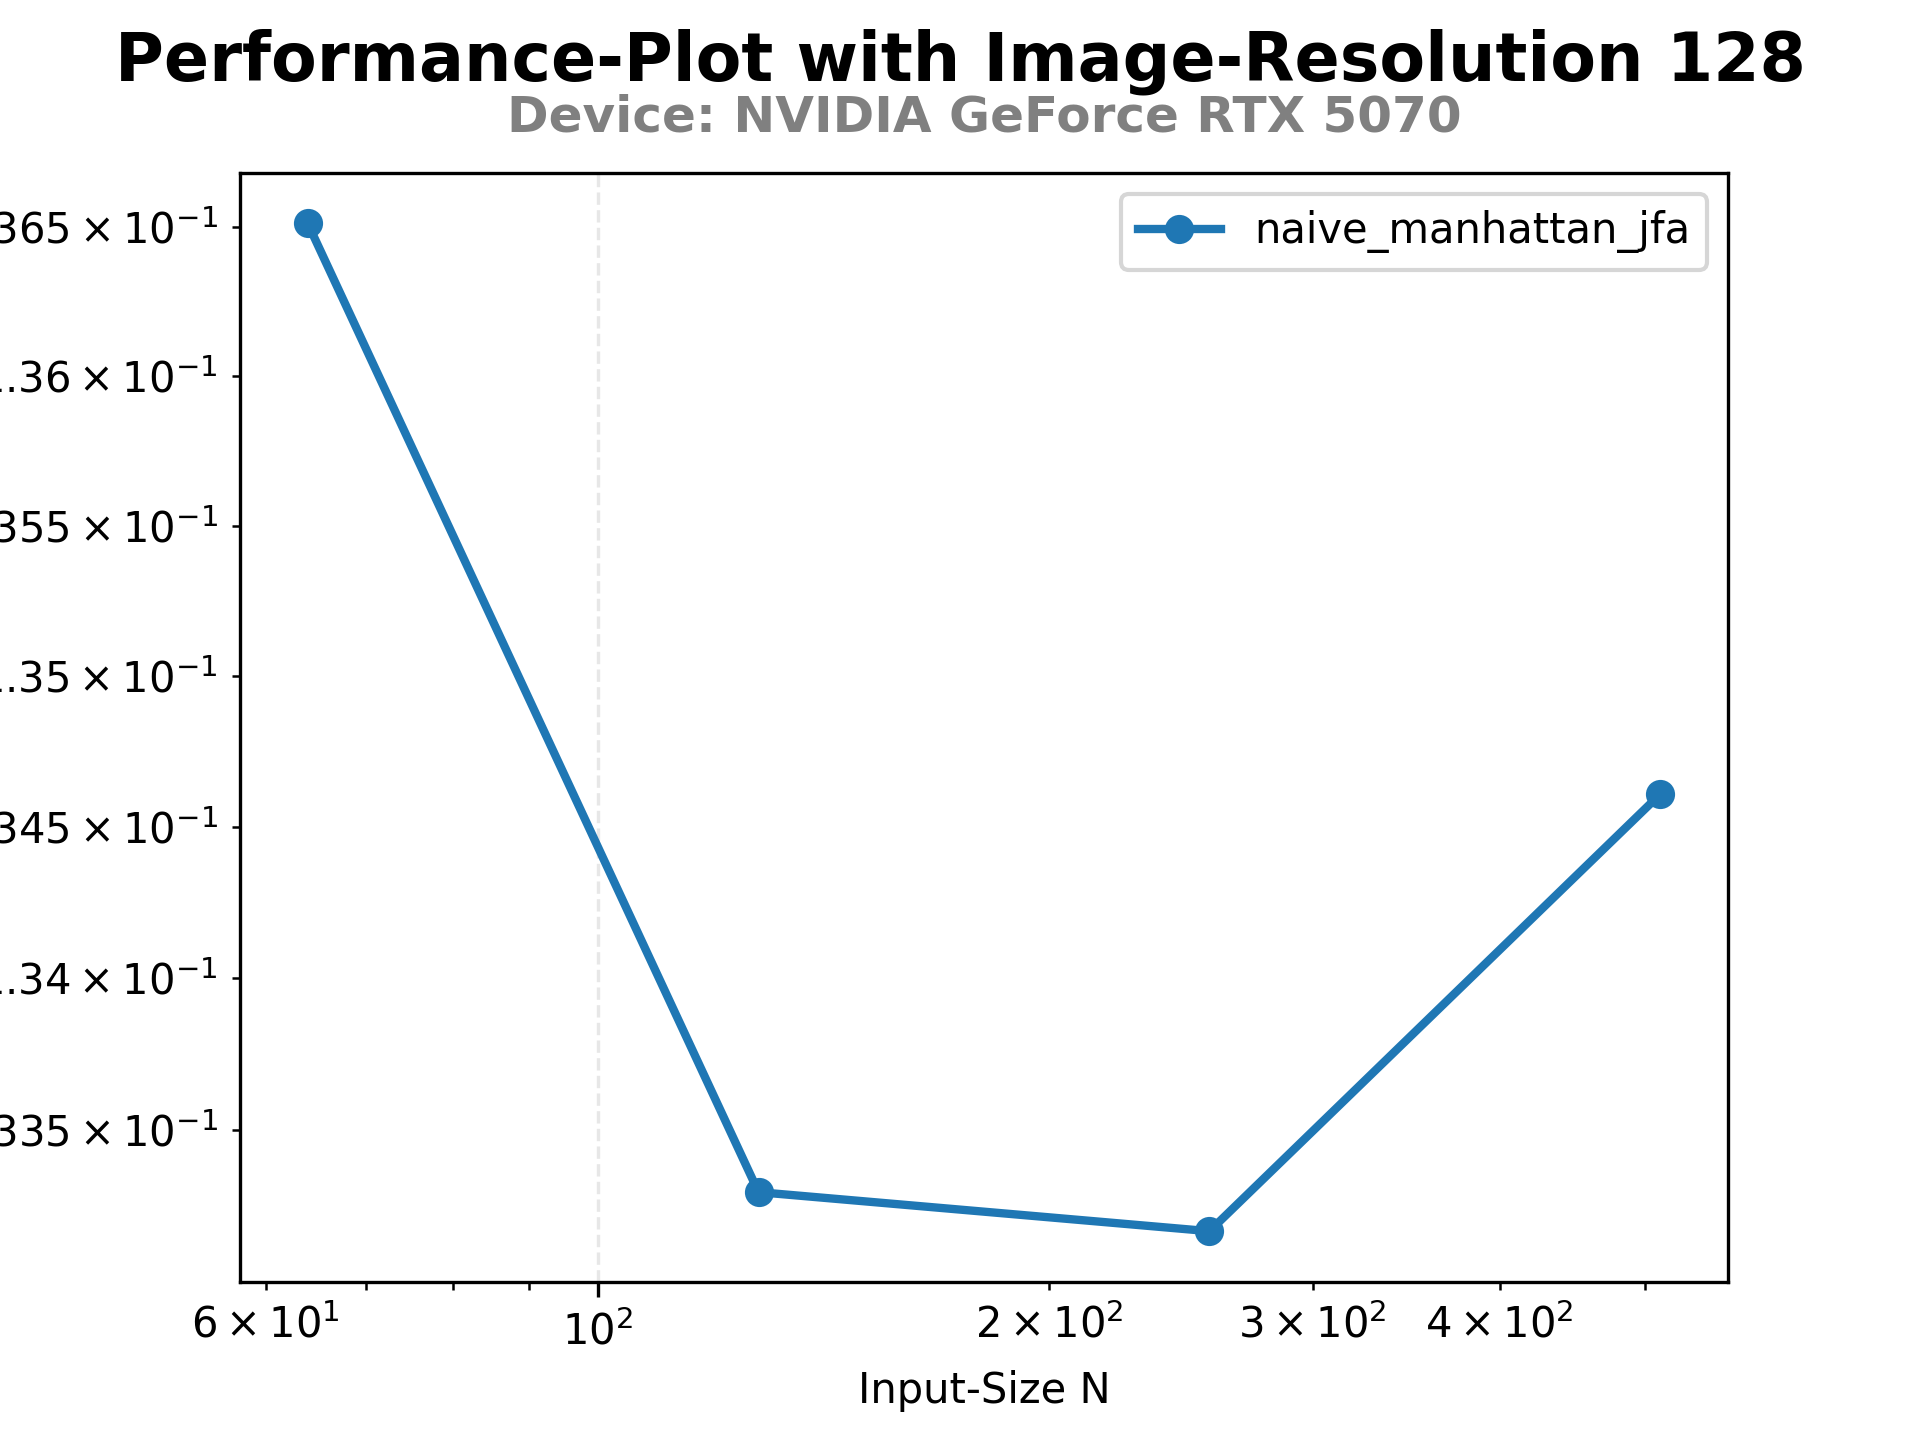
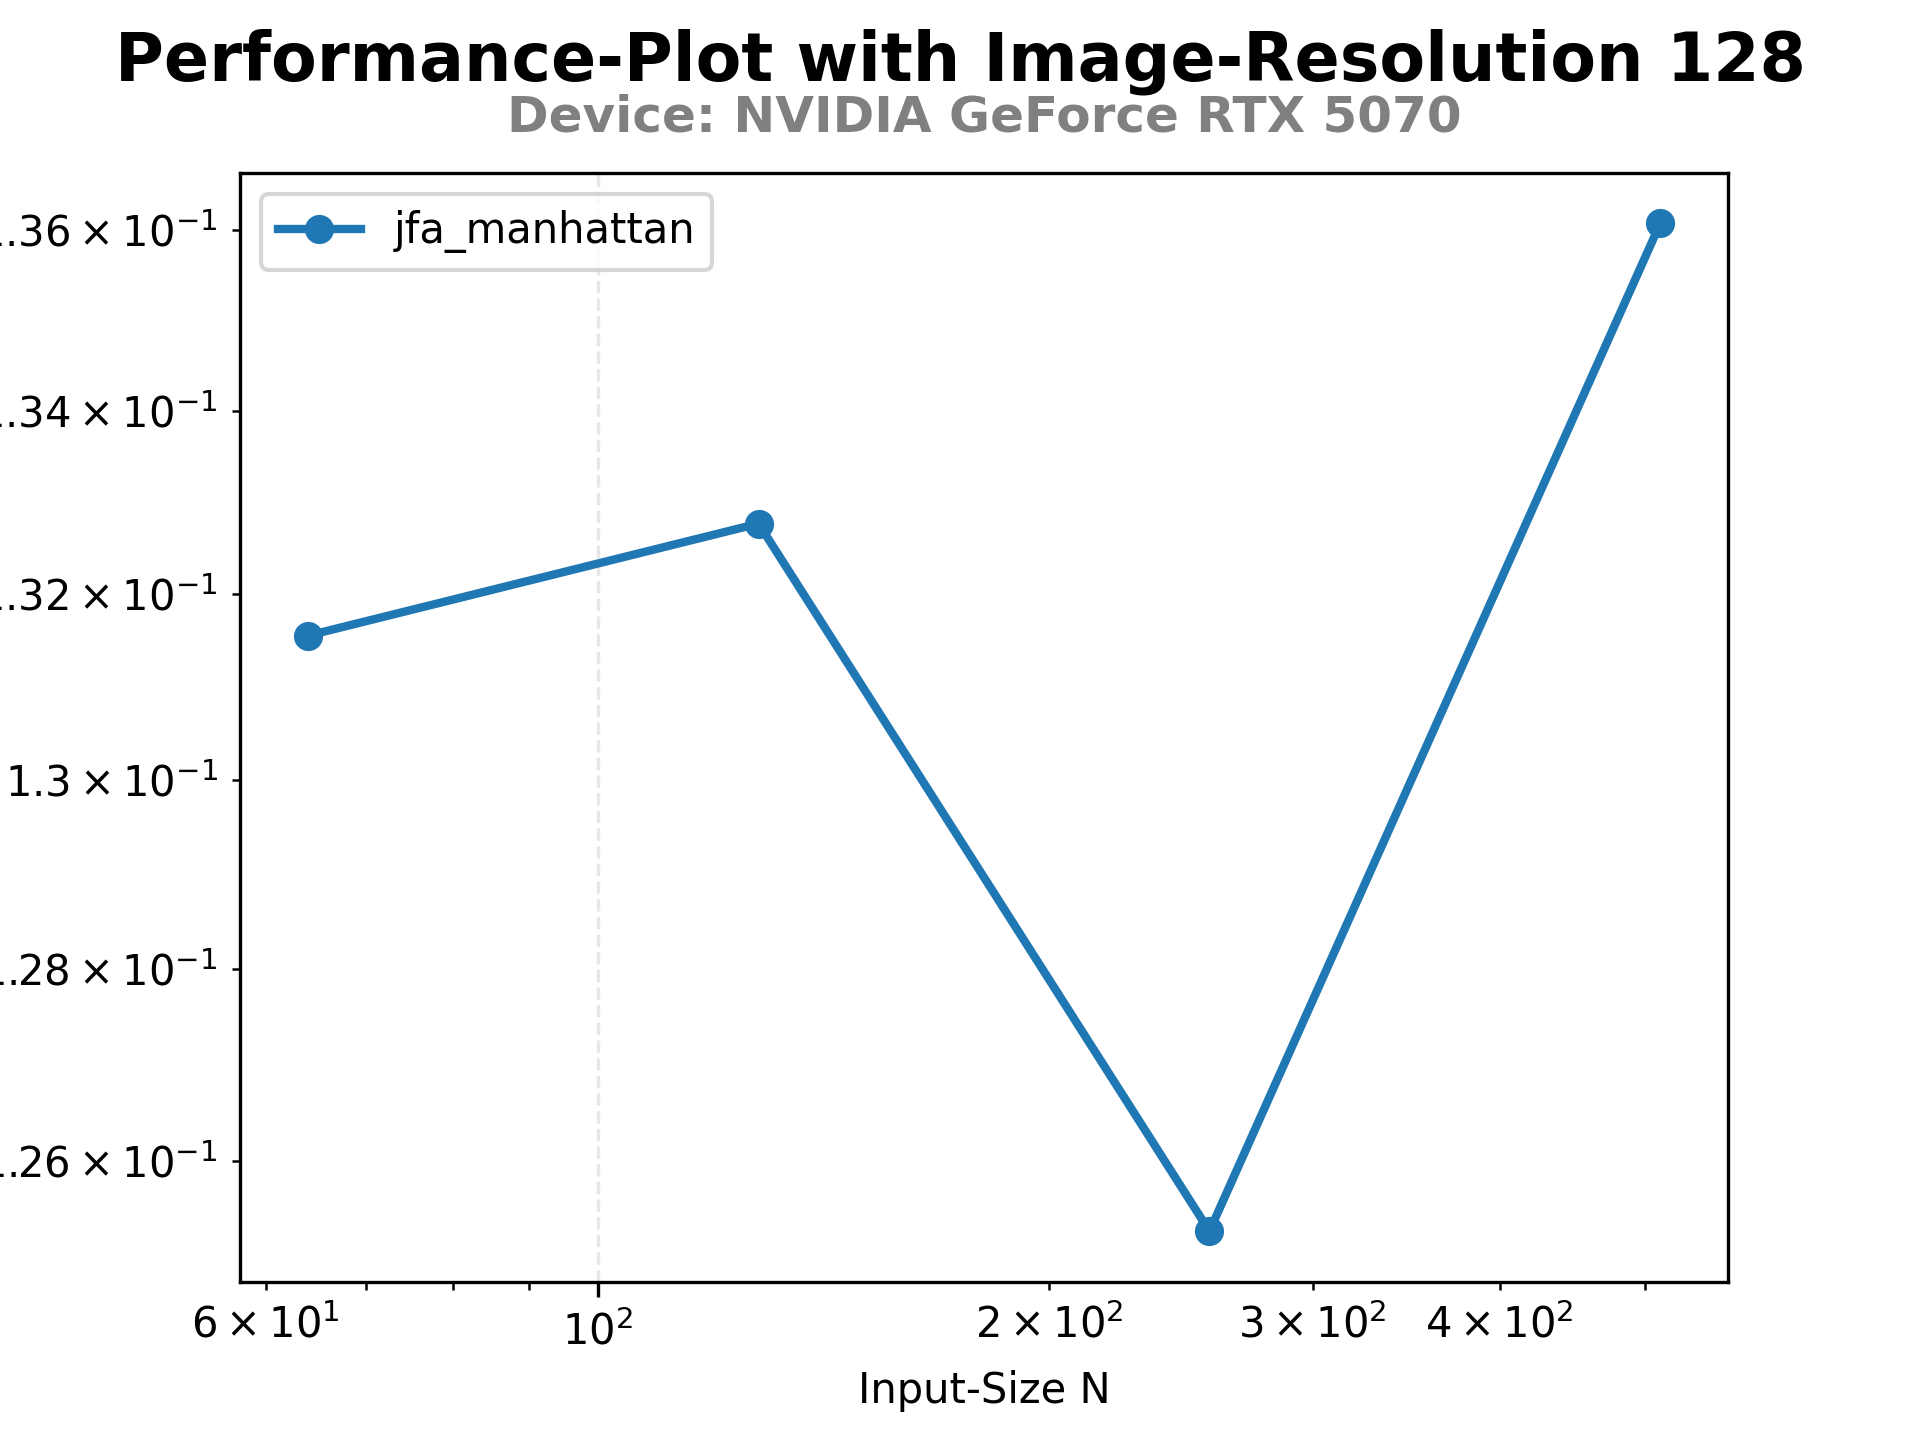
add missing rtx 5070 diagrams + minor fixes

diff --git a/doc/README.md b/doc/README.md
@@ -704,13 +704,13 @@ Da in _Aufgabe 2_ entschieden wurde, CUDA-Events für die Laufzeitmessung zu ver
 **Variante 1: Events pro Iteration mit Synchronisierung:**
 
 ```python
-kernel_time: float = 0.0
+total_ms: float = 0.0
 while k >= 1:
     kernel_start.record()
     kernel[blocks_per_grid, threads_per_block](grid_in, grid_out, k, resolution)
     kernel_end.record()
     cuda.synchronize()
-    kernel_time += kernel_start.elapsed_time(kernel_end)
+    total_ms += kernel_start.elapsed_time(kernel_end)
     grid_in, grid_out = grid_out, grid_in
     k //= 2
 ```
@@ -761,7 +761,7 @@ $$O(\log_2(N))$$
 
 Auch in den unteren Linien-Diagrammen (Performance-Plots bei einer festen Auflösung von $128 \times 128$) wird dieses Verhalten bei genauerer Betrachtung deutlich. Obwohl die Kurve auf den ersten Blick stark schwankt, zeigt ein Blick auf die Zahlen der Y-Achse, dass sich die Werte in einem kleinen Wertebereich bewegen. Die visuellen Schwankungen resultieren aus der automatischen Skalierung des Diagramms, welches auf die Kurve _"herangezoomt"_ hat. In absoluten Zahlen ausgedrückt sind diese Schwankungen vernachlässigbar und bestätigen die Unabhängigkeit von der Punkteanzahl.
 
-Die folgenden Diagramme zeigen die gemessenen Kernellaufzeiten für die **Mannhatten-Distanz**:
+Die folgenden Diagramme zeigen die gemessenen Kernellaufzeiten für die **Manhattan-Distanz**:
 
 ```bash
 uv run .\src\task7.py jfa_manhattan
@@ -804,7 +804,21 @@ uv run .\src\task6b.py naive-jfa-step-analysis
 
 <td>
 
-...
+Device: NVIDIA GeForce RTX 5070 | Resolution: 2048 | Seeds: 512
+
+| Step size ($k$) | Naive square euclidean | Naive manhattan |
+| --- | --- | --- |
+| 1024 | 0.3194 ms | 0.3713 ms |
+| 512 | 0.1705 ms | 0.1591 ms |
+| 256 | 0.1574 ms | 0.1495 ms |
+| 128 | 0.1541 ms | 0.1515 ms |
+| 64 | 0.1567 ms | 0.1381 ms |
+| 32 | 0.1978 ms | 0.1415 ms |
+| 16 | 0.1751 ms | 0.1407 ms |
+| 8 | 0.1598 ms | 0.1506 ms |
+| 4 | 0.1508 ms | 0.1437 ms |
+| 2 | 0.1440 ms | 0.1267 ms |
+| 1 | 0.1296 ms | 0.1393 ms |
 
 </td>
 <td>